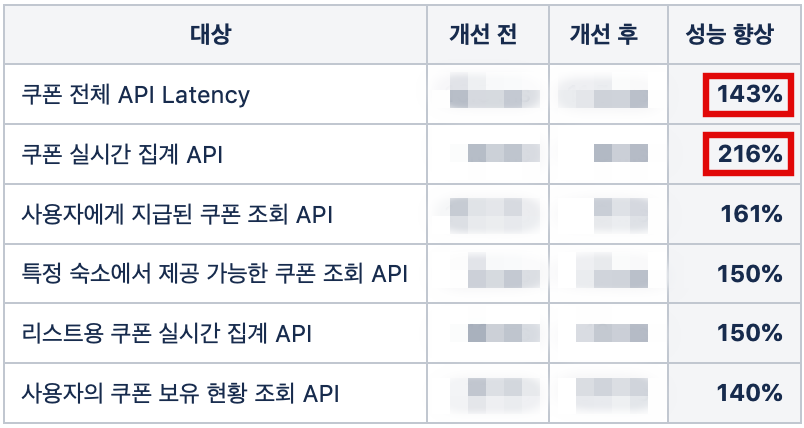
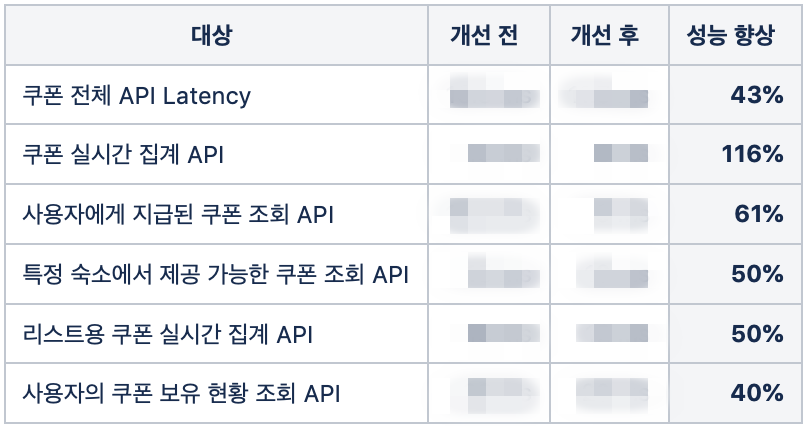
수치 오표기 수정

diff --git a/_posts/2018-10-28-hazelcast-hibernate-second-level-cache.md b/_posts/2018-10-28-hazelcast-hibernate-second-level-cache.md
@@ -438,13 +438,13 @@ navigation: True
     * Coupon API의 응답 속도 향상
     * DB 트래픽 경감
 * 결과
-    * `Coupon API 200% 이상 성능 향상`
+    * `Coupon API 100% 이상 성능 향상`
         * 리스트용 쿠폰 실시간 집계 API (`쿠폰 전체 트래픽의 약 20% 비중`)
-            * `300% 성능 향상`
+            * `150% 성능 향상`
         * 쿠폰 실시간 집계 API  (`쿠폰 전체 트래픽의 약 27% 비중`)
-            * `200% 성능 향상`
+            * `100% 성능 향상`
         * 예약시 사용가능한 쿠폰 조회 API (`쿠폰 전체 트래픽의 7% 비중`)
-            * `171% 성능 향상`
+            * `71% 성능 향상`
     * DB 트래픽 약 30% 경감
 * 결과 이미지
     * Cache 적용 이후 전체 Latency 변화

diff --git a/_posts/2019-01-01-hibrnate-autocommit-tuning.md b/_posts/2019-01-01-hibrnate-autocommit-tuning.md
@@ -356,7 +356,7 @@ navigation: True
 
 ## 적용 결과
 * 결과 요약
-    * setAutoCommit 최적화로 `쿠폰 전체 API에 대해 평균적으로 143%의 성능 개선`
+    * setAutoCommit 최적화로 `쿠폰 전체 API에 대해 평균적으로 43%의 성능 향상`
 * API 별 분석
     * ![setAutoCommit 튜닝 전 후 종합 결과](/assets/images/post/autocommit_total_result_table.png)
 * 결과 이미지
